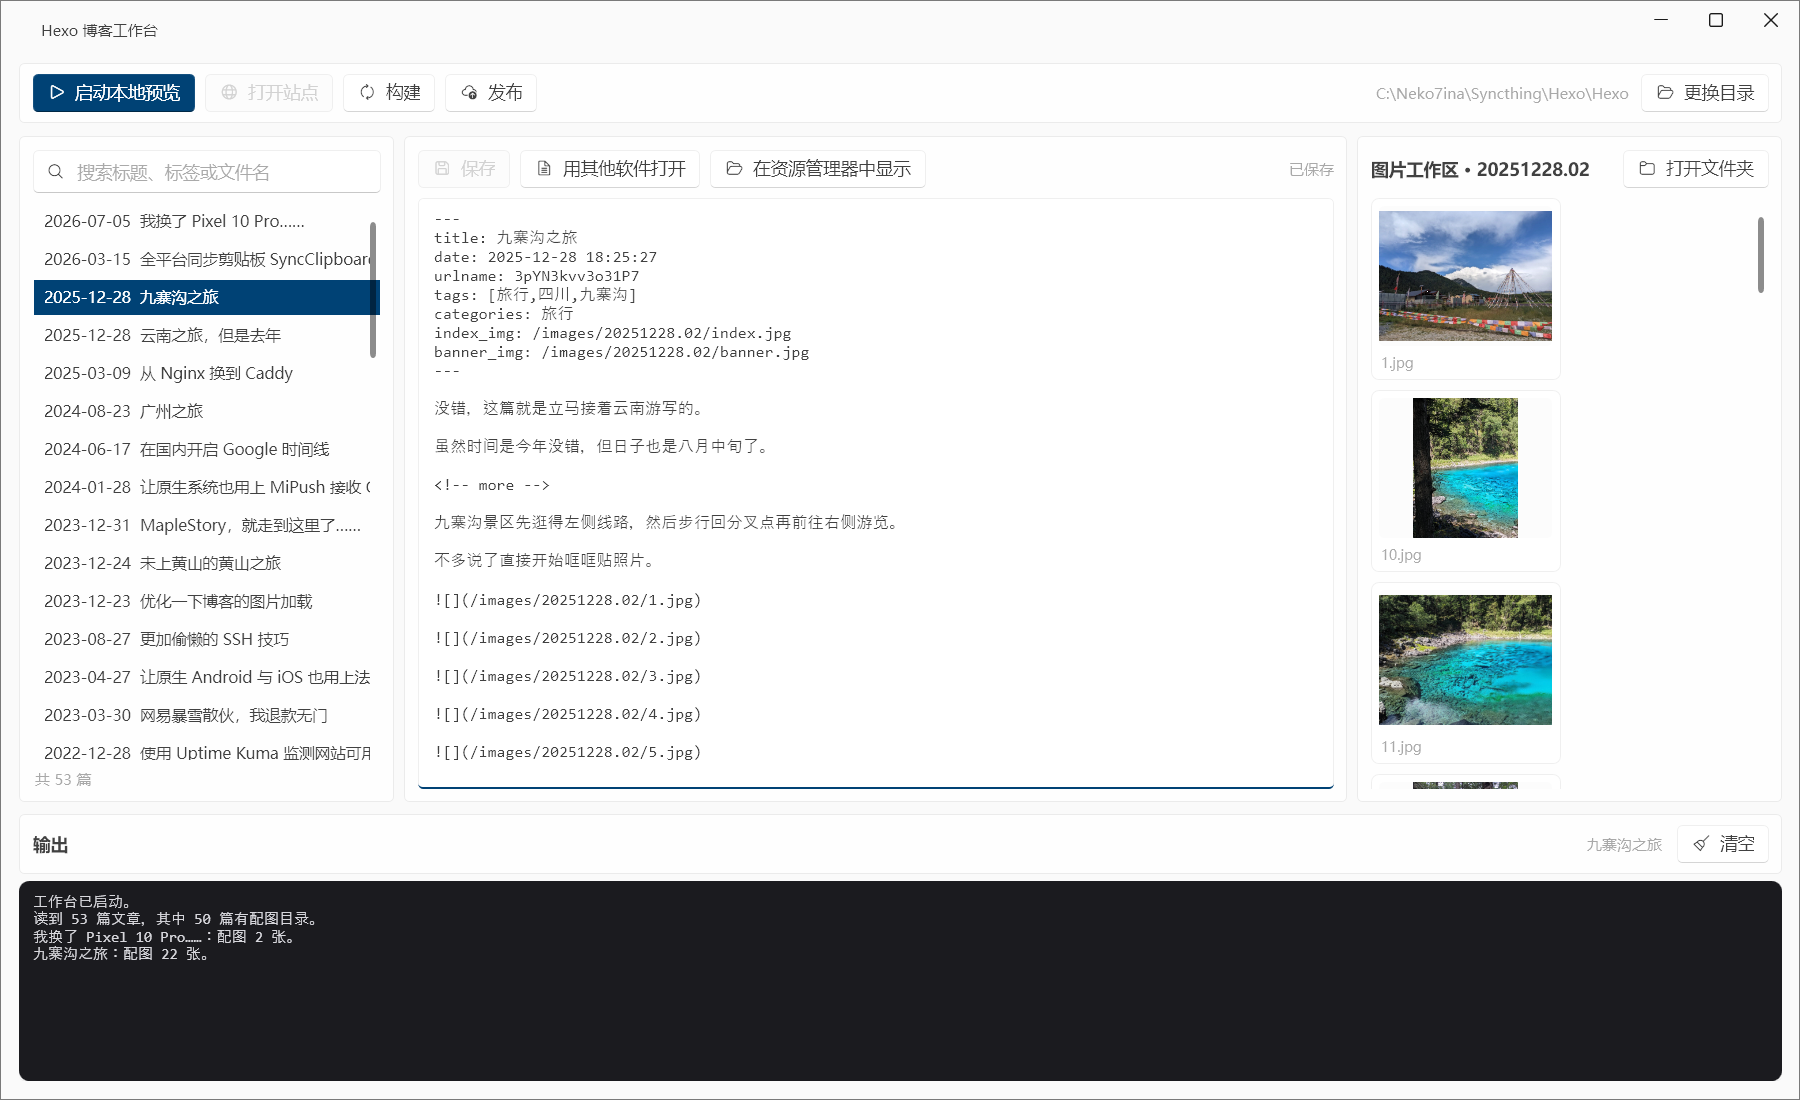
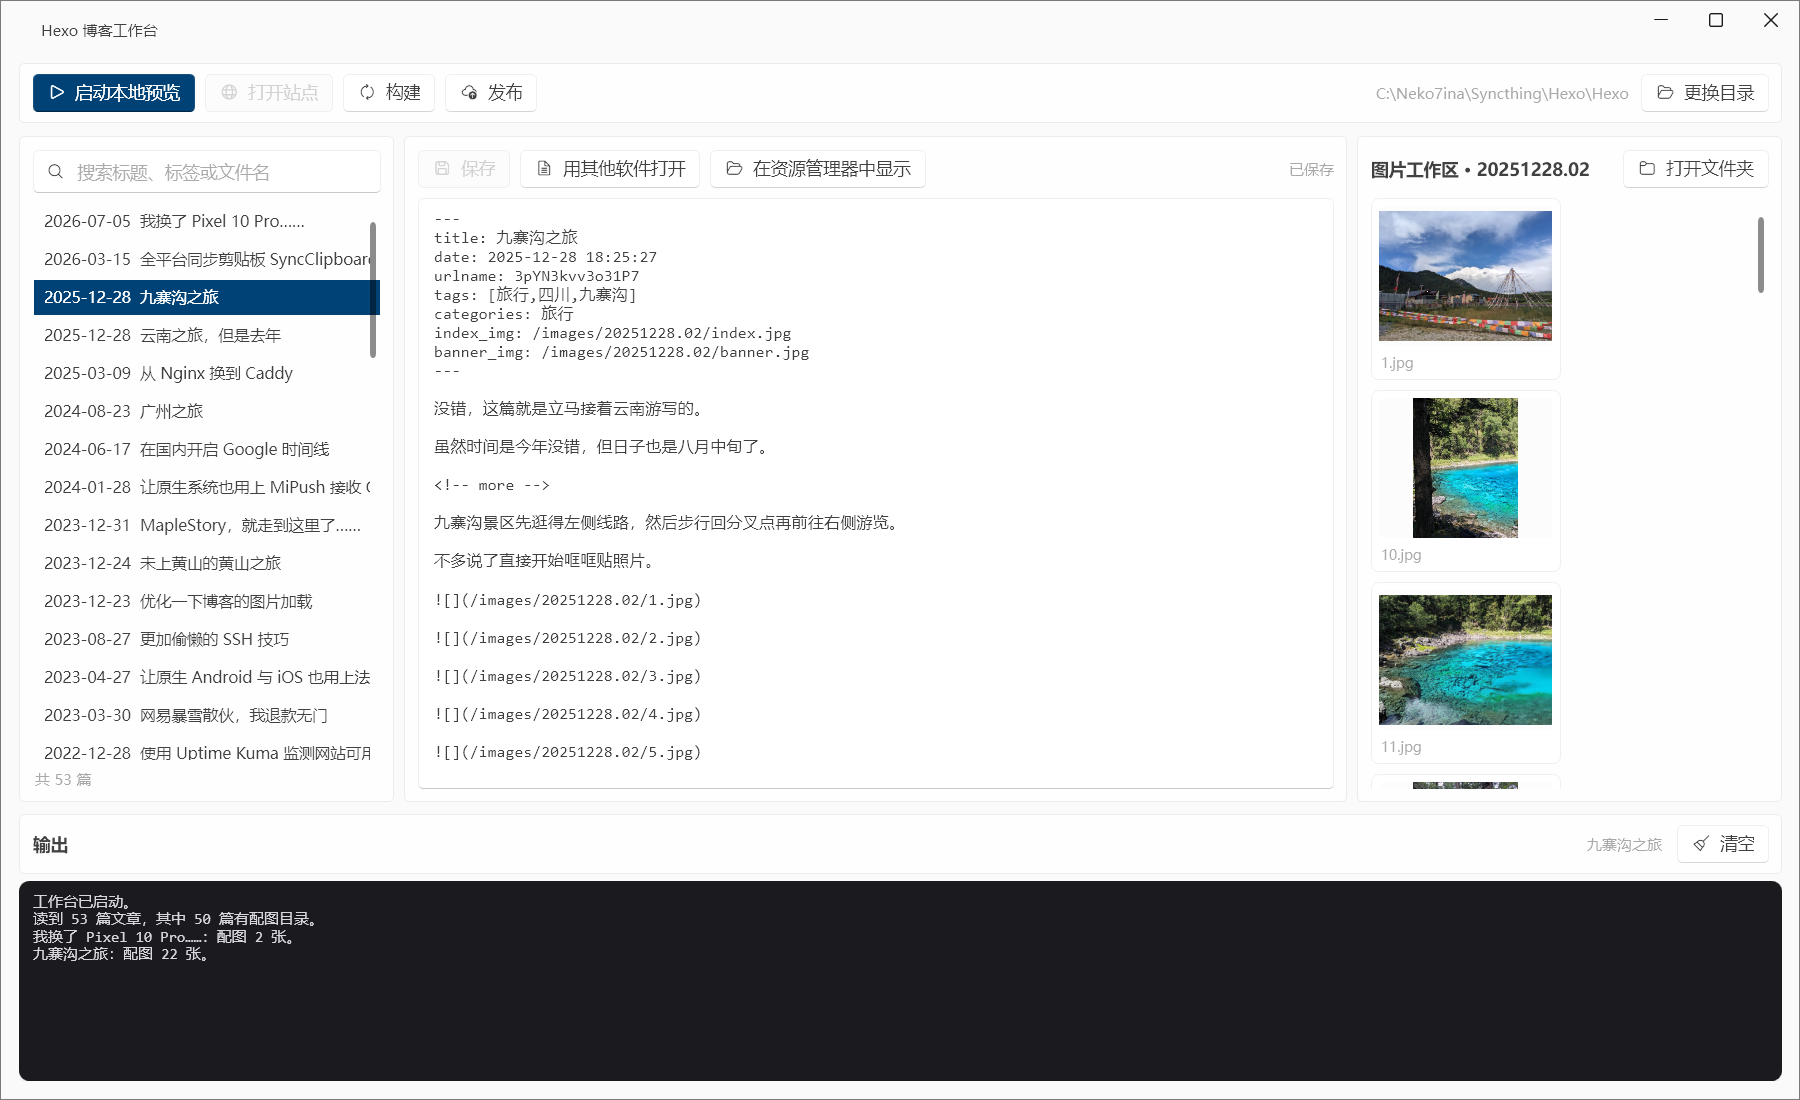
fix: 汉字回退到日文字体的问题
WPF 的 CJK 回退表在 Language 匹配不上时优先选 Meiryo（日文），控件默认语言是 en-US。
应用级固定 zh-CN，所有字体链末尾显式补 Microsoft YaHei UI / SimSun。

diff --git a/MainWindow.xaml b/MainWindow.xaml
@@ -8,7 +8,7 @@
                  ExtendsContentIntoTitleBar="True"
                  WindowBackdropType="Mica"
                  WindowCornerPreference="Round"
-                 FontFamily="Microsoft YaHei UI" FontSize="13">
+                 FontFamily="Microsoft YaHei UI, Segoe UI, SimSun" FontSize="13">
 
     <Grid>
         <Grid.RowDefinitions>
@@ -96,7 +96,7 @@
                     </DockPanel>
                     <TextBox x:Name="Editor" AcceptsReturn="True" AcceptsTab="True" TextWrapping="NoWrap"
                              VerticalScrollBarVisibility="Auto" HorizontalScrollBarVisibility="Auto"
-                             FontFamily="Cascadia Mono, Consolas, monospace" FontSize="13"
+                             FontFamily="Cascadia Mono, Consolas, Microsoft YaHei UI, SimSun" FontSize="13"
                              IsEnabled="False" TextChanged="OnEditorTextChanged"
                              PreviewKeyDown="OnEditorKeyDown" />
                 </DockPanel>
@@ -182,7 +182,7 @@
                 Background="{StaticResource LogBackgroundBrush}">
             <TextBox x:Name="LogBox" IsReadOnly="True" TextWrapping="NoWrap" AcceptsReturn="True"
                      VerticalScrollBarVisibility="Auto" HorizontalScrollBarVisibility="Auto"
-                     FontFamily="Cascadia Mono, Consolas, monospace" FontSize="12"
+                     FontFamily="Cascadia Mono, Consolas, Microsoft YaHei UI, SimSun" FontSize="12"
                      Background="Transparent" Foreground="{StaticResource LogForegroundBrush}"
                      BorderThickness="0" Padding="10" />
         </Border>

diff --git a/CommitMessageDialog.xaml b/CommitMessageDialog.xaml
@@ -9,7 +9,7 @@
                  WindowBackdropType="Mica"
                  WindowCornerPreference="Round"
                  ShowInTaskbar="False"
-                 FontFamily="Microsoft YaHei UI" FontSize="13">
+                 FontFamily="Microsoft YaHei UI, Segoe UI, SimSun" FontSize="13">
     <Grid>
         <Grid.RowDefinitions>
             <RowDefinition Height="Auto" />

diff --git a/App.xaml.cs b/App.xaml.cs
@@ -1,4 +1,5 @@
 using System.Windows;
+using System.Windows.Markup;
 using HexoBlogStudio.Services;
 
 namespace HexoBlogStudio;
@@ -8,6 +9,14 @@ public partial class App : Application
     protected override void OnStartup(StartupEventArgs e)
     {
         base.OnStartup(e);
+
+        // WPF 的 CJK 回退表（GlobalMonospace/GlobalUserInterface.CompositeFont）按元素的
+        // Language 选字体：zh-Hans 对应 Microsoft YaHei，匹配不上则落到「Other」分支，
+        // 而那一支的第一顺位是日文的 Meiryo。控件默认 Language 是 en-US，于是汉字会
+        // 显示成日文字形。把框架级默认语言固定成中文，回退就落在中文字体上。
+        FrameworkElement.LanguageProperty.OverrideMetadata(
+            typeof(FrameworkElement),
+            new FrameworkPropertyMetadata(XmlLanguage.GetLanguage("zh-CN")));
 
         // 无界面自检：HexoBlogStudio.exe --selftest <报告文件> [站点目录]
         if (e.Args.Length >= 2 && e.Args[0] == "--selftest")
